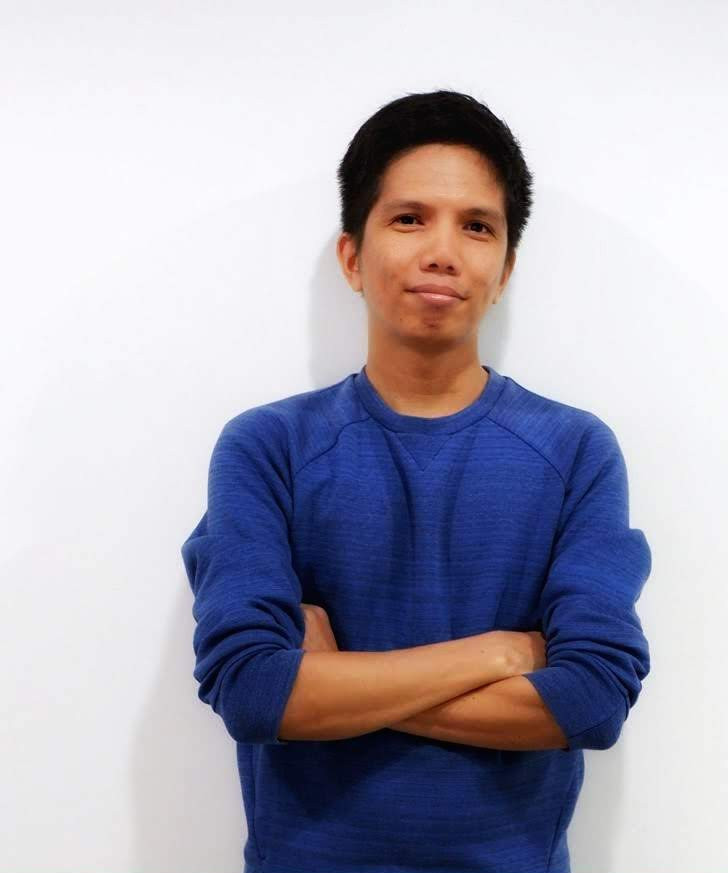
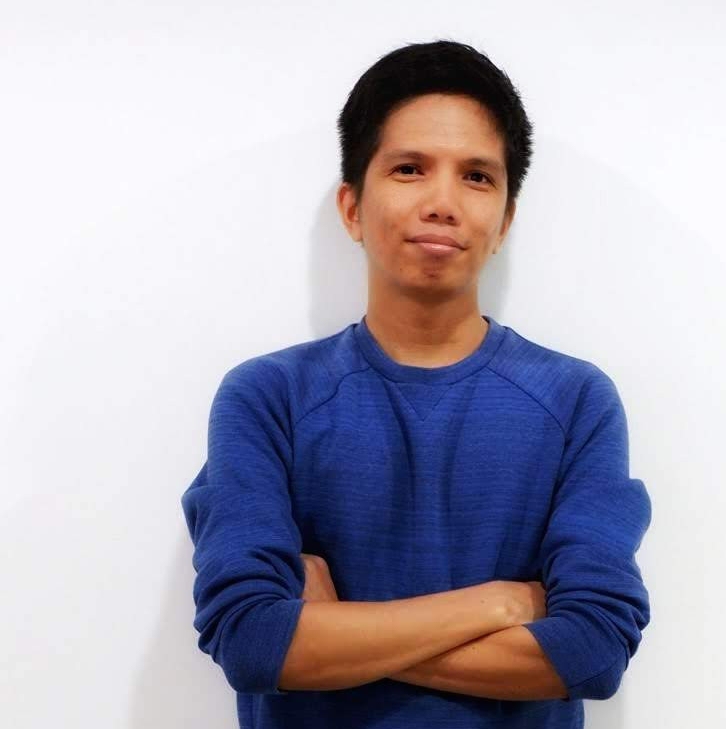
fix: profile image, tech carousel

Changed region(s): [[0.2121, 0.0302, 0.9091, 1.0], [0.1818, 0.845, 0.2121, 0.9053]]

diff --git a/index.html b/index.html
@@ -5,13 +5,13 @@
     <meta charset="utf-8">
     <meta http-equiv="X-UA-Compatible" content="IE=Edge">
     <meta name="author" content="Sermil Matoto" />
-    <meta property="og:url" content="https://smatoto.github.io">
+    <meta property="og:url" content="https://smatoto.dev">
     <meta property="og:type" content="website" />
     <meta property="og:title" content="Sermil's Portfolio">
-    <meta property="og:description" content="Full Stack Web Developer. Google Cloud Consultant." />
+    <meta property="og:description" content="Developer, DevOps, Cloud Architect" />
     <meta property="og:image" content="https://smatoto.github.io/img/thumbnail.png">
     <meta name="keywords"
-        content="programmer,developer, full stack web developer, web developer,backend developer,cloud consultant,portfolio" />
+        content="programmer,developer, full stack web developer, web developer,backend developer,cloud architect,portfolio"/>
     <meta name="viewport" content="width=device-width, initial-scale=1.0, maximum-scale=1.0">
 
     <title>Sermil | Developer Portfolio</title>
@@ -32,7 +32,6 @@
     <!-- Stylesheets-->
     <link href="css/vendors/materialize.min.css" rel="stylesheet">
     <link href="css/vendors/bootstrap.min.css" rel="stylesheet">
-    <link rel="stylesheet" type="text/css" href="https://cdn.jsdelivr.net/npm/slick-carousel@1.8.1/slick/slick.css" />
     <link href="css/style.css" id="switch_style" rel="stylesheet">
 
     <script src="https://cdnjs.cloudflare.com/ajax/libs/slick-carousel/1.6.0/slick.js"></script>
@@ -55,17 +54,17 @@
                     </a>
                 </li>
                 <li class="nav-item">
+                    <a class="nav-link" href="#skills">Skills
+                        <span class="sr-only">(current)</span>
+                    </a>
+                </li>
+                <li class="nav-item">
                     <a class="nav-link" href="#works">Works
                         <span class="sr-only">(current)</span>
                     </a>
                 </li>
                 <li class="nav-item">
                     <a class="nav-link" href="#about">About
-                        <span class="sr-only">(current)</span>
-                    </a>
-                </li>
-                <li class="nav-item">
-                    <a class="nav-link" href="#tech">Technologies
                         <span class="sr-only">(current)</span>
                     </a>
                 </li>
@@ -86,7 +85,7 @@
                 </div>
                 <div class="text-holder text-center">
                     <h2>Sermil Matoto</h2>
-                    <h6>Web Developer | Cloud Architect</h6>
+                    <h6>Developer | DevOps | Cloud Architect</h6>
                 </div>
             </div>
         </div>
@@ -120,13 +119,13 @@
                         <div class="card-content">
                             <div class="info-headings">
                                 <h4 class="left">Hi! I'm Sermil</h4>
-                                <h6 class="text-capitalize left">Web Developer | Cloud Architect</h6>
+                                <h6 class="text-capitalize left">Developer | DevOps | Cloud Architect</h6>
                             </div>
                             <div class="infos">
                                 <ul class="profile-list">
                                     <li class="clearfix">
                                         <p class="title text-left">
-                                                Full Stack Web Developer with strong infrastructure, DevOps and cloud computing skills. Highly dynamic, detail-oriented and results-driven Cloud Consultant with proven track record in the IT industry. Multi-certified professional in Google Cloud Platform. 
+                                                Full Stack Web Developer with strong infrastructure, DevOps and cloud computing skills. Highly dynamic, detail-oriented and results-driven Cloud Architect with proven track record in the IT industry. Multi-certified professional in Google Cloud Platform. 
                                         </p>
                                     </li>
                                 </ul>
@@ -397,67 +396,6 @@
         </div>
     </section>
 
-    <!-- Skills -->
-    <section id="tech" class="section">
-        <div class="container">
-            <!-- SECTION TITLE -->
-            <div class="section-title">
-                <h4 class="text-uppercase text-center"><i class="fas fa-cogs"></i> Technologies</h4>
-            </div>
-            <div class="row mt-5">
-                <div class="col-md-12 col-sm-12 col-xs-12">
-                    <div class="tech-logos slider">
-                        <div class="slide">
-                            <img src="img/logos/html.png" alt="html">
-                        </div>
-                        <div class="slide">
-                            <img src="img/logos/css.png" alt="css">
-                        </div>
-                        <div class="slide">
-                            <img src="img/logos/javascript.png" alt="javascript">
-                        </div>
-                        <div class="slide">
-                            <img src="img/logos/php.png" alt="php">
-                        </div>
-                        <div class="slide">
-                            <img src="img/logos/mysql.png" alt="mysql">
-                        </div>
-                        <div class="slide">
-                            <img src="img/logos/laravel.png" alt="laravel">
-                        </div>
-                        <div class="slide">
-                            <img src="img/logos/jquery.png" alt="jquery">
-                        </div>
-                        <div class="slide">
-                            <img src="img/logos/ajax.png" alt="ajax">
-                        </div>
-                        <div class="slide">
-                            <img src="img/logos/bootstrap.png" alt="bootstrap">
-                        </div>
-                        <div class="slide">
-                            <img src="img/logos/materialize.png" alt="materialize">
-                        </div>
-                        <div class="slide">
-                            <img src="img/logos/git.png" alt="git">
-                        </div>
-                        <div class="slide">
-                            <img src="img/logos/node.png" alt="git">
-                        </div>
-                        <div class="slide">
-                            <img src="img/logos/mongo.png" alt="git">
-                        </div>
-                        <div class="slide">
-                            <img src="img/logos/gcp.png" alt="git">
-                        </div>
-                        <div class="slide">
-                            <img src="img/logos/python.png" alt="git">
-                        </div>
-                    </div>
-                </div>
-            </div>
-        </div>
-    </section>
-
     <!-- Badges -->
     <section id="badges" class="section">
         <div class="container">
@@ -473,6 +411,11 @@
                     </a>
                 </div>
                 <div class="col s12 m12 l3">
+                    <a target="_blank" href="https://www.credential.net/bf2d7e82-a132-4ce8-b6b9-d7a82ce3313d">
+                        <img class="responsive-img" src="img/badges/pcde.png" title="Google Cloud Professional Cloud DevOps Engineer">
+                    </a>
+                </div>
+                <div class="col s12 m12 l3">
                     <a target="_blank" href="https://www.credential.net/1jktjahn">
                         <img class="responsive-img" src="img/badges/pce.png" title="Google Cloud Professional Collaboration Engineer">
                     </a>
@@ -483,8 +426,8 @@
                     </a>
                 </div>
                 <div class="col s12 m12 l3">
-                    <a target="_blank" href="https://drive.google.com/file/d/15Ass7p0dseKlBYCtuwlwImusrvS6T9sq/view">
-                        <img class="responsive-img" src="img/badges/deployment.png" title="G Suite Certified Deployment Specialist">
+                    <a target="_blank" href="https://www.credential.net/4fcc0cd5-34c6-4a1d-b8bd-6838c54133a4">
+                        <img class="responsive-img" src="img/badges/gsuite.png" title="G Suite Certified">
                     </a>
                 </div>
             </div>
@@ -516,22 +459,7 @@
     <script type='text/javascript' src="js/vendors/scrollreveal.js"></script>
     <script type='text/javascript' src="js/vendors/swiper.min.js"></script>
     <script type='text/javascript' src="js/vendors/jquery.magnific-popup.min.js"></script>
-    <script type="text/javascript" src="https://cdn.jsdelivr.net/npm/slick-carousel@1.8.1/slick/slick.min.js"></script>
     <script type='text/javascript' src="js/script.js"></script>
-
-    <script>
-        $(document).ready(function(){
-        $('.tech-logos').slick({
-            slidesToShow: 5,
-            slidesToScroll: 1,
-            autoplay: true,
-            autoplaySpeed: 2000,
-            dots: false,
-            prevArrow: false,
-            nextArrow: false
-        });
-    });
-    </script>
 </body>
 
 </html>

diff --git a/css/style.css b/css/style.css
@@ -284,7 +284,7 @@ body.scale-effect .btn-holder .btn-play {
 	left:50%;
 	top:50%;
 	height:200px;
-	width:271px;
+	width:300px;
 	margin-top:-123px;
 	margin-left:-136px;
 }
